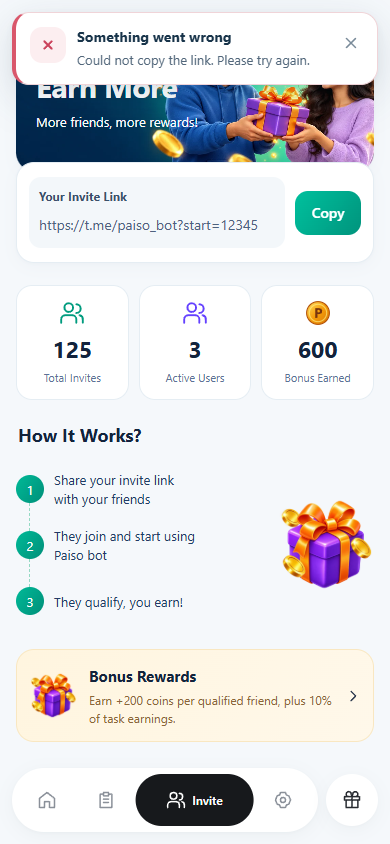
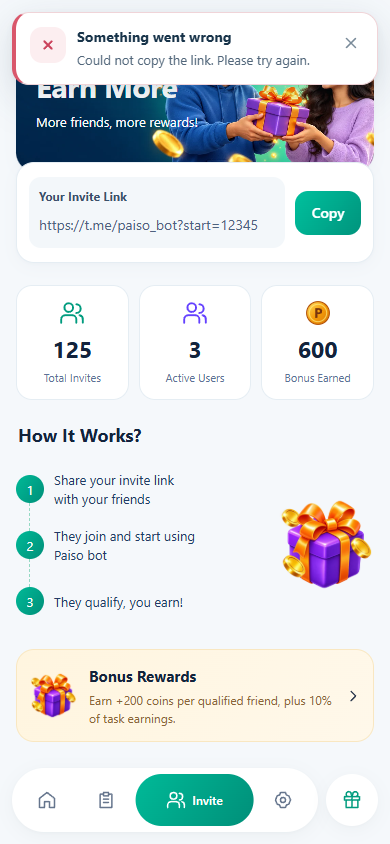
Fix Home header scrolling and align navigation with app colors

diff --git a/public/responsive.css b/public/responsive.css
@@ -8,6 +8,9 @@
 .app-viewport { flex: 1 1 0; min-height: 0; }
 .app-screen { padding-bottom: 0; }
 .app-screen:not(.active-screen) { transition: none; }
+.app-screen:not(.home-screen) { padding-top: env(safe-area-inset-top, 0px); }
+/* Header belongs to the Home scroll flow, without a separate surface above it. */
+.home-screen > .home-header { position: static; background: transparent; border: 0; box-shadow: none; backdrop-filter: none; -webkit-backdrop-filter: none; }
 .screen-content { max-width: 1280px; }
 .home-layout, .tasks-layout { padding-left: var(--page-gutter); padding-right: var(--page-gutter); }
 .app-header { padding-left: max(var(--page-gutter), env(safe-area-inset-left, 0px)); padding-right: max(var(--page-gutter), env(safe-area-inset-right, 0px)); }
@@ -31,7 +34,7 @@ nav.bottom-nav {
 }
 .nav-active-pill {
   position: absolute; z-index: -1; left: 6px; top: 6px; bottom: 6px;
-  width: calc((100% - 12px) * .4); border-radius: 999px; background: #17191c;
+  width: calc((100% - 12px) * .4); border-radius: 999px; background: var(--green);
   pointer-events: none; transform: translateX(0); transition: transform var(--nav-motion);
 }
 .bottom-nav-items:has([data-tab=tasks].active) { grid-template-columns: 1fr 2fr 1fr 1fr; }
@@ -44,7 +47,7 @@ nav.bottom-nav button, nav.bottom-nav button.nav-reward {
   display: flex; flex-direction: row; align-items: center; justify-content: center;
   min-width: 0; min-height: 52px; height: 52px; padding: 0; gap: 0;
   border: 0; border-radius: 999px; background: transparent; box-shadow: none;
-  color: #8a9099; font-size: 12px; font-weight: 600; line-height: 18px;
+  color: var(--ui-muted); font-size: 12px; font-weight: 600; line-height: 18px;
   transition: color 180ms ease, gap var(--nav-motion);
 }
 nav.bottom-nav button .nav-icon, nav.bottom-nav .nav-reward > .nav-icon {
@@ -60,14 +63,13 @@ nav.bottom-nav button.active .nav-label { max-width: 65px; opacity: 1; }
 nav.bottom-nav button.active::after { display: none; }
 nav.bottom-nav button.nav-reward {
   flex: 0 0 52px; width: 52px; height: 52px; min-height: 52px;
-  color: #272a30; background: #fff; box-shadow: 0 4px 18px #1423300b, 0 1px 3px #14233006;
+  color: var(--ui-accent); background: #fff; box-shadow: 0 4px 18px #1423300b, 0 1px 3px #14233006;
 }
 nav.bottom-nav button:active .nav-icon { transform: scale(.9); }
-nav.bottom-nav button:focus-visible { outline: 2px solid #758190; outline-offset: 2px; }
-nav.bottom-nav button.active:focus-visible { outline-color: #17191c; }
+nav.bottom-nav button:focus-visible { outline: 2px solid var(--ui-accent); outline-offset: 2px; }
 @media (hover: hover) {
-  nav.bottom-nav button:not(.active):hover { color: #272a30; }
-  nav.bottom-nav button.nav-reward:hover { background: #f9fafb; }
+  nav.bottom-nav button:not(.active):hover { color: var(--ui-accent); }
+  nav.bottom-nav button.nav-reward:hover { background: #edf9f4; }
 }
 
 @media (min-width: 600px) {

diff --git a/public/app.js b/public/app.js
@@ -279,10 +279,7 @@ function QuickTasks({ variant = 'home' }) {
     const tasksVariant = variant === 'tasks';
     const titleId = tasksVariant ? 'tasks-quick-title' : 'quick-title';
     const items = [
-        { title: 'Daily Check-in', copy: h("span", null,
-                "Check in daily",
-                h("br", null),
-                "and earn rewards!"), action: () => window.openDailyCheckin(), label: 'Check In', art: 'checkin' },
+        { title: 'Daily Check-in', copy: 'Claim daily reward', action: () => window.openDailyCheckin(), label: 'Check In', art: 'checkin' },
         { title: 'Daily Spin', copy: 'Spin & win coins!', action: () => window.openDailySpin(), label: 'Spin Now', art: 'spin' },
         { title: 'Daily Bonus', copy: 'Claim free rewards!', action: () => window.claimDaily(), label: 'Claim Now', art: 'bonus' },
     ];
@@ -429,6 +426,7 @@ function showFeaturedGamesError() {
 // --- src/client/components/HomeView.tsx ---
 function HomeView() {
     return (h("section", { id: "tab-home", className: "app-screen home-screen active-screen", "aria-label": "Home" },
+        h(AppHeader, null),
         h("div", { className: "screen-content home-layout" },
             h(HomeHero, null),
             h(QuickTasks, null),
@@ -965,7 +963,6 @@ function BottomNav() {
 
 
 
-
 function NotificationModal() {
     return (h("div", { id: "notifModal", role: "dialog", "aria-modal": "true", "aria-labelledby": "notificationsTitle", className: "fixed inset-0 z-[9999] bg-slate-900/50 backdrop-blur-[2px] hidden items-end sm:items-center justify-center p-0 sm:p-4", onKeyDown: (event) => {
             if (event.key === 'Escape') {
@@ -1014,7 +1011,6 @@ function PaisoApp() {
         h(DailyCheckInModal, null),
         h(SettingsOverlays, null,
             h(TaskListPage, null)),
-        h(AppHeader, null),
         h("main", { className: "app-viewport" },
             h(HomeView, null),
             h(TasksView, null),
@@ -1127,7 +1123,7 @@ function showTab(name, taskFilter) {
 }
 let settingsOpener = null;
 function setSettingsBackgroundInert(inert) {
-    document.querySelectorAll('.app-shell > .app-header, .app-shell > .app-viewport, .app-shell > .bottom-nav').forEach(el => {
+    document.querySelectorAll('.app-shell > .app-viewport, .app-shell > .bottom-nav').forEach(el => {
         el.inert = inert;
     });
 }

diff --git a/src/client/app.tsx b/src/client/app.tsx
@@ -3,7 +3,6 @@ import { SvgSpriteDefs } from './components/Icons';
 import { DailyCheckInModal } from './components/home/DailyCheckIn';
 import { HomeView } from './components/HomeView';
 import { FeedbackToast, showFeedback, FeedbackKind } from './components/shared/FeedbackToast';
-import { AppHeader } from './components/shared/AppHeader';
 import { EarnIcon } from './components/shared/EarnIcon';
 import { UiIcon } from './components/shared/UiIcon';
 import { GameCard } from './components/shared/GameCard';
@@ -328,7 +327,6 @@ function PaisoApp() {
       <GameModal />
       <DailyCheckInModal />
       <SettingsOverlays><TaskListPage /></SettingsOverlays>
-      <AppHeader />
       <main className="app-viewport">
         <HomeView />
         <TasksView />
@@ -456,7 +454,7 @@ function showTab(name: TabName, taskFilter?: TaskFilter): void {
 let settingsOpener: HTMLElement | null = null;
 
 function setSettingsBackgroundInert(inert: boolean): void {
-  document.querySelectorAll<HTMLElement>('.app-shell > .app-header, .app-shell > .app-viewport, .app-shell > .bottom-nav').forEach(el => {
+  document.querySelectorAll<HTMLElement>('.app-shell > .app-viewport, .app-shell > .bottom-nav').forEach(el => {
     el.inert = inert;
   });
 }

diff --git a/dist/client/app.js b/dist/client/app.js
@@ -3,7 +3,6 @@ import { SvgSpriteDefs } from './components/Icons';
 import { DailyCheckInModal } from './components/home/DailyCheckIn';
 import { HomeView } from './components/HomeView';
 import { FeedbackToast, showFeedback } from './components/shared/FeedbackToast';
-import { AppHeader } from './components/shared/AppHeader';
 import { EarnIcon } from './components/shared/EarnIcon';
 import { GameCard } from './components/shared/GameCard';
 import { updateFeaturedGames, showFeaturedGamesError } from './components/home/FeaturedGames';
@@ -61,7 +60,6 @@ function PaisoApp() {
         h(DailyCheckInModal, null),
         h(SettingsOverlays, null,
             h(TaskListPage, null)),
-        h(AppHeader, null),
         h("main", { className: "app-viewport" },
             h(HomeView, null),
             h(TasksView, null),
@@ -174,7 +172,7 @@ function showTab(name, taskFilter) {
 }
 let settingsOpener = null;
 function setSettingsBackgroundInert(inert) {
-    document.querySelectorAll('.app-shell > .app-header, .app-shell > .app-viewport, .app-shell > .bottom-nav').forEach(el => {
+    document.querySelectorAll('.app-shell > .app-viewport, .app-shell > .bottom-nav').forEach(el => {
         el.inert = inert;
     });
 }

diff --git a/dist/client/components/home/QuickTasks.js b/dist/client/components/home/QuickTasks.js
@@ -4,10 +4,7 @@ export function QuickTasks({ variant = 'home' }) {
     const tasksVariant = variant === 'tasks';
     const titleId = tasksVariant ? 'tasks-quick-title' : 'quick-title';
     const items = [
-        { title: 'Daily Check-in', copy: h("span", null,
-                "Check in daily",
-                h("br", null),
-                "and earn rewards!"), action: () => window.openDailyCheckin(), label: 'Check In', art: 'checkin' },
+        { title: 'Daily Check-in', copy: 'Claim daily reward', action: () => window.openDailyCheckin(), label: 'Check In', art: 'checkin' },
         { title: 'Daily Spin', copy: 'Spin & win coins!', action: () => window.openDailySpin(), label: 'Spin Now', art: 'spin' },
         { title: 'Daily Bonus', copy: 'Claim free rewards!', action: () => window.claimDaily(), label: 'Claim Now', art: 'bonus' },
     ];

diff --git a/src/client/components/home/QuickTasks.tsx b/src/client/components/home/QuickTasks.tsx
@@ -4,7 +4,7 @@ export function QuickTasks({ variant = 'home' }: { variant?: 'home' | 'tasks' })
   const tasksVariant = variant === 'tasks';
   const titleId = tasksVariant ? 'tasks-quick-title' : 'quick-title';
   const items = [
-    { title: 'Daily Check-in', copy: <span>Check in daily<br />and earn rewards!</span>, action: () => window.openDailyCheckin(), label: 'Check In', art: 'checkin' },
+    { title: 'Daily Check-in', copy: 'Claim daily reward', action: () => window.openDailyCheckin(), label: 'Check In', art: 'checkin' },
     { title: 'Daily Spin', copy: 'Spin & win coins!', action: () => window.openDailySpin(), label: 'Spin Now', art: 'spin' },
     { title: 'Daily Bonus', copy: 'Claim free rewards!', action: () => window.claimDaily(), label: 'Claim Now', art: 'bonus' },
   ];

diff --git a/public/polish.css b/public/polish.css
@@ -33,7 +33,6 @@ button:disabled { cursor: not-allowed; }
 .header-avatar { padding: 4px; }
 .header-avatar .avatar-dot { width: 9px; height: 9px; top: 4px; right: 4px; }
 .app-header[hidden] { display: none; }
-.app-header[hidden] + .app-viewport { margin-top: env(safe-area-inset-top,0px); }
 .home-header { height: calc(68px + env(safe-area-inset-top,0px)); min-height: 68px; gap: 12px; padding-top: calc(12px + env(safe-area-inset-top,0px)); padding-bottom: 12px; }
 .home-identity { display: flex; align-items: center; gap: 11px; flex: 1; min-width: 0; min-height: 44px; padding: 0; border: 0; background: transparent; text-align: left; }
 .home-identity .home-avatar { width: 44px; height: 44px; flex-shrink: 0; border-radius: 50%; background: #eaf4ef; box-shadow: 0 0 0 3px #fff; }

diff --git a/dist/client/components/HomeView.js b/dist/client/components/HomeView.js
@@ -1,10 +1,12 @@
 import { h } from '../jsx';
+import { AppHeader } from './shared/AppHeader';
 import { HomeHero } from './home/HomeHero';
 import { QuickTasks } from './home/QuickTasks';
 import { EarnShortcuts } from './home/EarnShortcuts';
 import { FeaturedGames } from './home/FeaturedGames';
 export function HomeView() {
     return (h("section", { id: "tab-home", className: "app-screen home-screen active-screen", "aria-label": "Home" },
+        h(AppHeader, null),
         h("div", { className: "screen-content home-layout" },
             h(HomeHero, null),
             h(QuickTasks, null),

diff --git a/src/client/components/HomeView.tsx b/src/client/components/HomeView.tsx
@@ -1,4 +1,5 @@
 import { h } from '../jsx';
+import { AppHeader } from './shared/AppHeader';
 import { HomeHero } from './home/HomeHero';
 import { QuickTasks } from './home/QuickTasks';
 import { EarnShortcuts } from './home/EarnShortcuts';
@@ -7,6 +8,7 @@ import { FeaturedGames } from './home/FeaturedGames';
 export function HomeView() {
   return (
     <section id="tab-home" className="app-screen home-screen active-screen" aria-label="Home">
+      <AppHeader />
       <div className="screen-content home-layout">
         <HomeHero />
         <QuickTasks />

diff --git a/ui/UI-POLISH.md b/ui/UI-POLISH.md
@@ -14,12 +14,12 @@ Open ui/preview/polish-review.html for the visual review. Screenshots contain te
 
 ## Personalized Home header
 
-Home shows the current avatar and a Hey, first-name greeting from user data. The notification bell opens the existing notification dialog and shows unread counts up to 9+. The shared header is completely hidden on Tasks, Invite, Games, Offers and Settings, without reserving layout space. Back bars remain on detail pages. Search stays inside task lists; the Home withdrawal shortcut remains available. Browser checks cover greeting data, avatar navigation, unread-count clearing and header visibility across every tab.
+Home shows the current avatar and a Hey, first-name greeting from user data. The notification bell opens the existing notification dialog and shows unread counts up to 9+. The transparent header now belongs to the Home scroll flow, so it moves with the cards instead of clipping them behind a separate top layer. It is completely hidden on Tasks, Invite, Games, Offers and Settings, without reserving layout space. Back bars remain on detail pages. Search stays inside task lists; the Home withdrawal shortcut remains available. Browser checks cover greeting data, avatar navigation, unread-count clearing, header scrolling and header visibility across every tab. Daily Check-in uses the shorter description “Claim daily reward” in both Home and Tasks.
 
 ## Fullscreen layout and navigation
 
 `public/responsive.css` is the final layout layer. The shell fills the available browser viewport with dynamic viewport height; content stays readable within a 1280px maximum. At 760px, Home, Tasks and Settings reflow into columns. Games scale from two to four columns. Forms keep a narrower reading width. Reference artwork and text use a capped `--reference-unit`, avoiding oversized typography on desktop. Banner artwork keeps its original aspect ratio.
 
-The footer floats 12px above the bottom safe area, with a white capsule containing Home, Tasks, Invite and Settings, plus an independent circular Rewards action on the right. Only the selected tab shows its label, in white on a black pill. A single indicator slides between destinations while the grid redistributes space over 320ms. Inactive outline icons remain soft gray; all buttons retain accessible names and at least 44px touch targets. The container is capped at 440px, with no full-width footer surface or border. Scrolling reserves space above the controls. Keyboard focus and reduced motion are supported. Inactive pages hide immediately to avoid showing two pages during a transition; incoming pages retain their gentle fade.
+The footer floats 12px above the bottom safe area, with a white capsule containing Home, Tasks, Invite and Settings, plus an independent circular Rewards action on the right. Only the selected tab shows its label, in white on the shared teal gradient. The reward icon and keyboard focus use the app accent color. A single indicator slides between destinations while the grid redistributes space over 320ms. Inactive outline icons use the shared muted color; all buttons retain accessible names and at least 44px touch targets. The container is capped at 440px, with no full-width footer surface or border. Scrolling reserves space above the controls. Keyboard focus and reduced motion are supported. Inactive pages hide immediately to avoid showing two pages during a transition; incoming pages retain their gentle fade.
 
 Regression coverage now includes nine viewport sizes from 320px to 1920px, portrait and landscape, full viewport bounds, floating capsule clearance, independent action geometry, footer touch targets, indicator alignment after switching tabs, visible active labels, hidden inactive labels, keyboard navigation, reduced-motion transitions, selected destinations, Rewards opening, content clearance and horizontal overflow. `node scripts/verify-ui.cjs --layout-only` runs the layout/navigation portion; omit the flag for all existing interaction checks. Preview images use fixture data, not live transactions. The four `ui/preview/navigation-*.png` images show each selected state.
